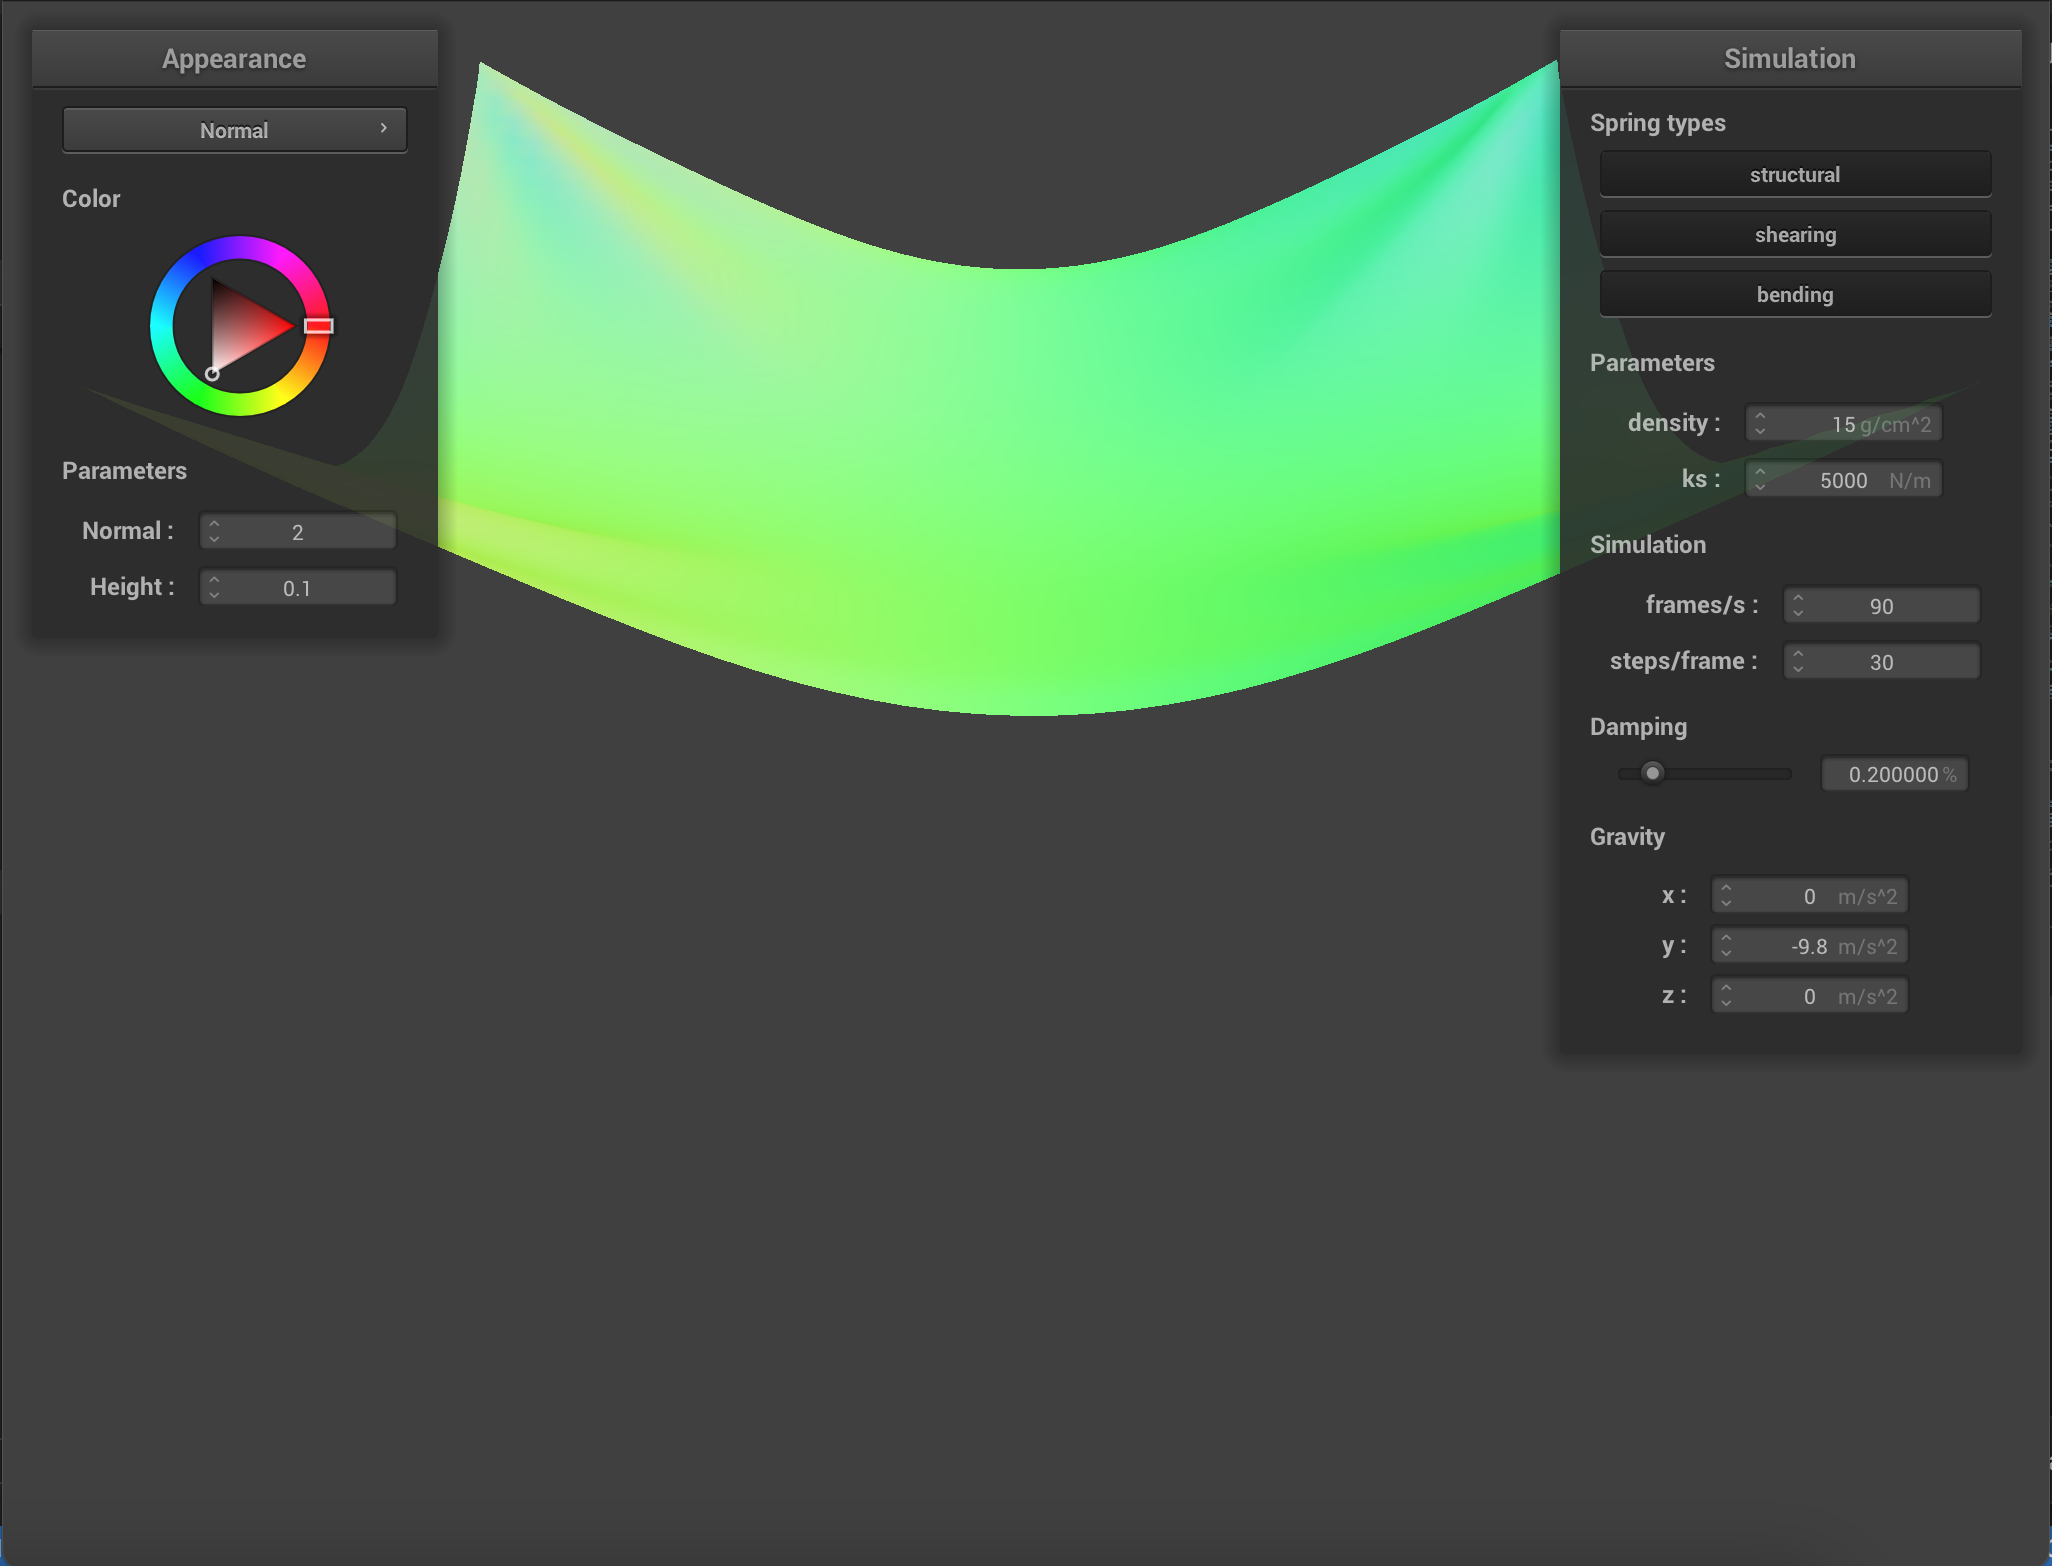
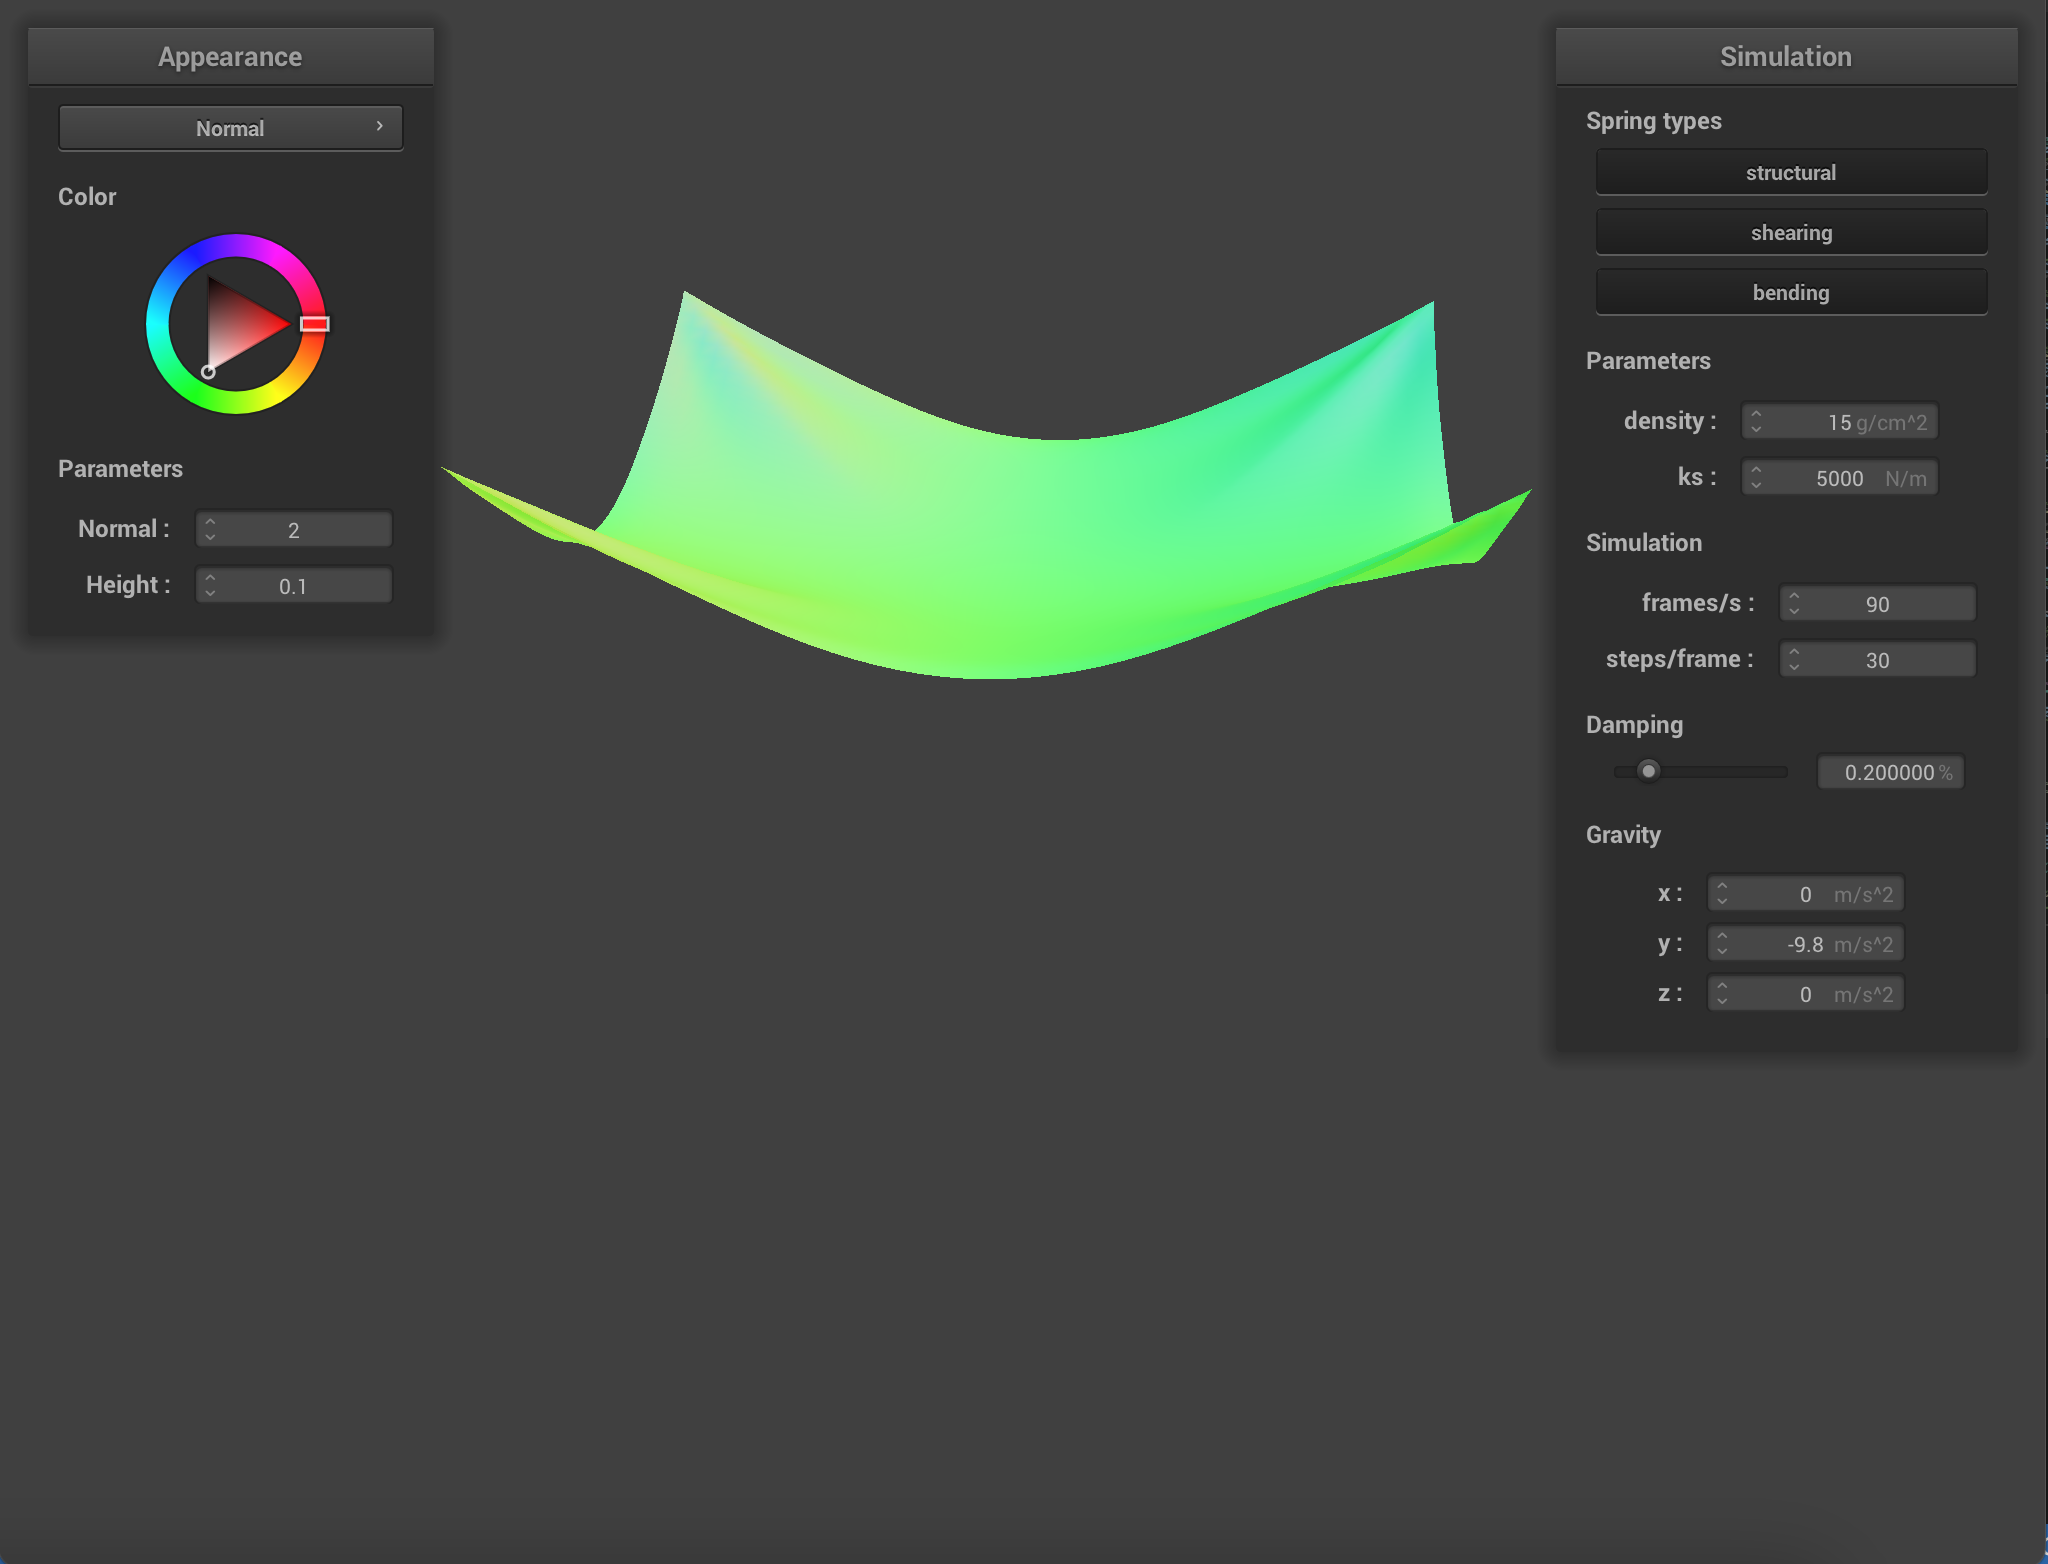
hw4: adding part 3 writeup

diff --git a/hw4/index.html b/hw4/index.html
@@ -28,7 +28,7 @@
 	<body>
 		<div class="container">
 		<h1>CS184/284A Spring 2025 Homework 4 Write-Up</h1>
-		<div style="text-align: center;">Names: </div>
+		<div style="text-align: center;">Names: Ashley Kao</div>
 
 		<br>
 
@@ -90,7 +90,7 @@
 				</td>
 				<td style="text-align: center;">
 				  <img src="part2-high-ks.png" width="400px"/>
-				  <figcaption>high ks.</figcaption>
+				  <figcaption>high ks</figcaption>
 				</td>
 			  </tr>
 			  <tr>
@@ -115,7 +115,7 @@
 			  </tr>
 			</table>
 		</div>
-
+		The cloth is more flexible with low ks and more rigid for high ks.
 		For low damping, the cloth would continually bounce after it had become vertical, likely due to the lack of sufficient energy loss
 		leading to the cloth retaining most of its energy from the fall. With high damping, the cloth's fall became very sluggish. It additionally did not bounce; it moreso fell like a rock.
 
@@ -125,13 +125,80 @@
 		</figure>
 
 		<h2>Part 3: Handling collisions with other objects</h2>
-		Lorem ipsum dolor sit amet, consectetur adipiscing elit, sed do eiusmod tempor incididunt ut labore et dolore magna aliqua. Ut enim ad minim veniam, quis nostrud exercitation ullamco laboris nisi ut aliquip ex ea commodo consequat. Duis aute irure dolor in reprehenderit in voluptate velit esse cillum dolore eu fugiat nulla pariatur. Excepteur sint occaecat cupidatat non proident, sunt in culpa qui officia deserunt mollit anim id est laborum.
+		<!-- Describe implementation of handling collisions with spheres and planes. -->
+		<p>My implementation for collision with spheres and planes follows the outline in the spec. For spheres, I first figure out where the point 
+		currently is relative to the center of the sphere. If the distance between point and sphere is greater than the radius, then the point 
+		is outside the sphere and nothing needs to be done. Otherwise, I determine where the tangent point was by extending a vector from sphere center to point position
+		outward to the sphere's surface. Next, using this tangent point, I figure out the correction vector needed to adjust the point mass's last_position such that rather than 
+		going to the inside of the sphere, the point mass ends up exactly at the tangent point. Finally, I set the point mass's position to be the sum of its last_position and 
+		the scaled down (due to friction) correction vector.</p>
+		
+		<p>Checking whether a point mass made a collision is somewhat more complex in the plane case. For both the point mass's position and last_position,
+			I find the distance between the respective position and the plane. The value from the equation indicates where the point is relative to the plane: if it is 0 the point is on the plane 
+			but otherwise the point mass is to a side of the plane. If the values have the same sign, then the point is on the same side of the plane so no collision occured and nothing needs to be done.
+			Otherwise, we continue with collision handling as outlined by the spec. The next step is to project the point mass's position onto the plane so the tangent point can be found using our known points and vectors.
+			Once the tangent point has been found, I compute the correction vector while incorporating the small SURFACE_OFFSET constant to 
+			determine the point mass's new position. This final step is very similar to the final step for spheres. 
+		</p>
+
+		<!-- Screenshots of shaded cloth from scene/sphere.json in final resting state on sphere with default ks=5000, ks=500,
+		 and ks=50000. Describe the differences in results.-->
+		<p>Here are screenshots of scene/sphere.json with varying ks</p>
+		<div style="display: flex; flex-direction: column; align-items: center;">
+			<table style="width: 100%; text-align: center; border-collapse: collapse;">
+			   <tr>
+				<td style="text-align: center;">
+				   <img src="part3-ks500.png" width="400px"/>
+				   <figcaption>ks = 500</figcaption>
+				</td>
+				<td style="text-align: center;">
+				   <img src="part3-ks5000.png" width="400px"/>
+				   <figcaption>ks = 5000</figcaption>
+				</td>
+				<td style="text-align: center;">
+					<img src="part3-ks50000.png" width="400px"/>
+					<figcaption>ks = 50000</figcaption>
+				</td>
+			   </tr>
+			</table>
+		 </div>
+		<p>Lower ks gives more flexibility to the cloth, so more folds are visible when it is draped over the sphere.
+			In contrast, with high ks the cloth becomes very stiff so it no longer drapes smoothly over the sphere. Instead,
+			it folds slightly over the top of the sphere but otherwise sticks out to the side.
+		</p>
+
+		 <!-- Screenshot of shaded cloth lying peacefully at rest on the plane.-->
+		<figure>
+			<img src="part3-plane.png" alt="Cloth on plane" style="width:70%"/>
+			<figcaption>Screenshot of cloth at rest on plane.</figcaption>
+		</figure>
 
 		<h2>Part 4: Handling self-collisions</h2>
-		Lorem ipsum dolor sit amet, consectetur adipiscing elit, sed do eiusmod tempor incididunt ut labore et dolore magna aliqua. Ut enim ad minim veniam, quis nostrud exercitation ullamco laboris nisi ut aliquip ex ea commodo consequat. Duis aute irure dolor in reprehenderit in voluptate velit esse cillum dolore eu fugiat nulla pariatur. Excepteur sint occaecat cupidatat non proident, sunt in culpa qui officia deserunt mollit anim id est laborum.
+		<!-- Describe implementation of handling self-collisions-->
+
+		<!-- At least 3 screenshots documenting how cloth falls and folds on itself, starting with early, initial self-collision
+		 and ending with the cloth at a more restful state-->
+
+		<!-- Vary the density as well as ks and describe with words and screnshots how they affect the behavior of the cloth
+		 as it falls on itself-->
 
 		<h2>Part 5: Shaders</h2>
-		Lorem ipsum dolor sit amet, consectetur adipiscing elit, sed do eiusmod tempor incididunt ut labore et dolore magna aliqua. Ut enim ad minim veniam, quis nostrud exercitation ullamco laboris nisi ut aliquip ex ea commodo consequat. Duis aute irure dolor in reprehenderit in voluptate velit esse cillum dolore eu fugiat nulla pariatur. Excepteur sint occaecat cupidatat non proident, sunt in culpa qui officia deserunt mollit anim id est laborum.
+		<!-- Explain what a shader program is and how vertex and fragment shaders work together to create lighting and material effects-->
+
+		<!-- Explain the Blinn-Phong shading model. Show a screenshot of your Blinn-Phong shader outputting only the
+		 ambient component, only the diffuse component, only the specular component, and one using the entire Blinn-Phong model-->
+
+		<!-- Show screenshot of texture mapping shader using your own custom texture by modifying the textures in /textures/.-->
+
+		<!-- Show screenshot of bump mapping on the cloth and on the sphere. Show a screenshot of displacement mapping on the sphere.
+		 Use the same texture for both renders. You can either provide your own texture or use one of the ones in the textures
+		 directory, BUT choose one that's not the default texture_2.png. Compare the two approaches and renders in your own words.
+		 Compare how youir two shaders react to the sphere by changing the sphere mesh's coarseness by using -o 16 -a 16
+		 and then -o 128 -a 128.-->
+
+		<!-- Show a screenshot of your mirror shader on the cloth and on the sphere-->
+
+		<!-- Explain what you did in your custom shader, if you made one.-->
 
 		<h2>(Optional) Part 6: Extra Credit - Additional cloth simulation features!</h2>
 		Lorem ipsum dolor sit amet, consectetur adipiscing elit, sed do eiusmod tempor incididunt ut labore et dolore magna aliqua. Ut enim ad minim veniam, quis nostrud exercitation ullamco laboris nisi ut aliquip ex ea commodo consequat. Duis aute irure dolor in reprehenderit in voluptate velit esse cillum dolore eu fugiat nulla pariatur. Excepteur sint occaecat cupidatat non proident, sunt in culpa qui officia deserunt mollit anim id est laborum.
